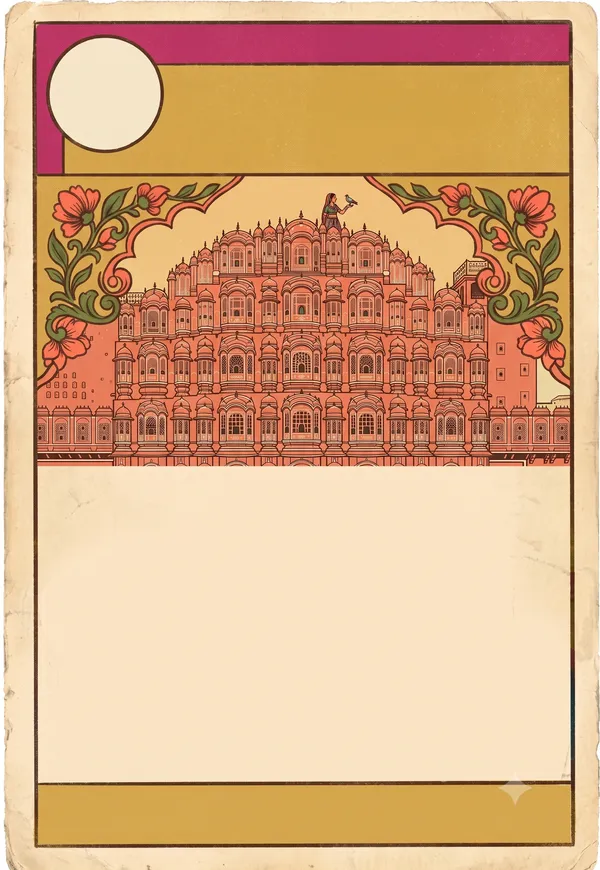
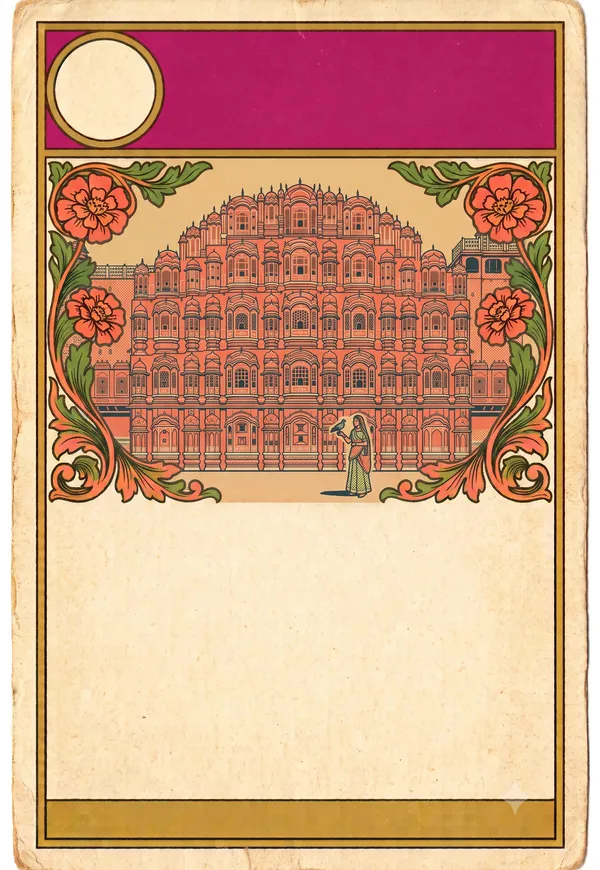
feat(mobile): all property plates on final palette — M4a art complete
8 plates finalised with single solid full-width set-colour banners (no more
split/two-tone gold bands):
- mumbai_0, mumbai_1        -> prussian navy
- jaipur_0, jaipur_1, jaipur_2 -> magenta pink
- puraniDilli_0, puraniDilli_1 -> burnt-sienna brown
- junction_2               -> re-dropped New Delhi Station (press-ink black),
                              station master on the deck; cleaner, compliant

Each passed the property checklist: single solid banner = locked set colour,
crisp (not washed-out), cream circle inside the band, hero <=~55%, clear cream
lower half, gold band.

The three gold-band early editions (mumbai_0, jaipur_0, jaipur_1) now carry
their set-colour banners, so their pins were removed: BANNER_HEX_OVERRIDES is
now EMPTY — every one of the 28 property plates renders on the locked palette
via the pure set-colour path. titleInk test updated (dropped the gold-band case;
the recolour check now confirms mumbai_0/jaipur_0/jaipur_1 follow the set colour).

M4a art is complete: 28/28 property plates + 10/10 action plates on final palette.

diff --git a/apps/mobile/src/design/titleInk.test.ts b/apps/mobile/src/design/titleInk.test.ts
@@ -25,21 +25,17 @@ describe('titleInkForPlate', () => {
     expect(titleInkForPlate(freshPlate, 'utility').name).toBe(INK.deepInk); // sage green
   });
 
-  it('keeps dark ink on the early gold-band plates (override)', () => {
-    expect(titleInkForPlate('prop_mumbai_0', 'mumbai').name).toBe(INK.deepInk);
-    expect(titleInkForPlate('prop_jaipur_0', 'jaipur').name).toBe(INK.deepInk);
-    expect(titleInkForPlate('prop_jaipur_1', 'jaipur').name).toBe(INK.deepInk);
-  });
-
-  it('recoloured plates follow the set colour now their overrides are removed', () => {
+  it('every plate follows its set colour now — BANNER_HEX_OVERRIDES is empty', () => {
+    // Former gold-band early editions, regenerated to solid set-colour banners:
+    expect(titleInkForPlate('prop_mumbai_0', 'mumbai').name).toBe(INK.cardCream); // navy -> cream
+    expect(titleInkForPlate('prop_jaipur_0', 'jaipur').name).toBe(INK.cardCream); // magenta -> cream
+    expect(titleInkForPlate('prop_jaipur_1', 'jaipur').name).toBe(INK.cardCream);
+    // Palette v2 recolours (one per family):
     expect(titleInkForPlate('prop_kashi_0', 'kashi').name).toBe(INK.deepInk); // kesari saffron -> dark
-    expect(titleInkForPlate('prop_kashi_2', 'kashi').name).toBe(INK.deepInk);
     expect(titleInkForPlate('prop_kolkata_0', 'kolkata').name).toBe(INK.cardCream); // royal violet -> cream
     expect(titleInkForPlate('prop_chennai_0', 'chennai').name).toBe(INK.deepInk); // chrome yellow -> dark
     expect(titleInkForPlate('prop_bangalore_0', 'bangalore').name).toBe(INK.deepInk); // azure -> dark
-    expect(titleInkForPlate('prop_bangalore_2', 'bangalore').name).toBe(INK.deepInk);
     expect(titleInkForPlate('prop_newDelhi_0', 'newDelhi').name).toBe(INK.cardCream); // leaf green -> cream
-    expect(titleInkForPlate('prop_newDelhi_2', 'newDelhi').name).toBe(INK.cardCream);
   });
 
   it('adds a keyline only when the ink is cream', () => {

diff --git a/apps/mobile/src/design/titleInk.ts b/apps/mobile/src/design/titleInk.ts
@@ -21,17 +21,14 @@ import { INK } from './tokens';
 // the existing card-face sublabel colour).
 const SUBLABEL_MUTED = '#5b5344';
 
-// Plates whose printed banner colour differs from their set colour, keyed by
-// plate id. Only exceptions live here; everything else uses the set colour.
-const BANNER_HEX_OVERRIDES: Record<string, string> = {
-  // Early "gold band" plates: painted with a gold title band (a thin set-colour
-  // strip on top) before the banner=set-colour convention settled. Dark ink reads
-  // on gold. Owner is deciding whether to regenerate these for palette consistency.
-  // (All palette-lock stragglers have now landed as v2 recolours and been removed.)
-  prop_mumbai_0: INK.gold,
-  prop_jaipur_0: INK.gold,
-  prop_jaipur_1: INK.gold,
-};
+// Plates whose printed banner colour differs from their set colour, keyed by plate
+// id. Only exceptions would live here; everything else uses the set colour.
+//
+// EMPTY — every property plate now carries its locked set-colour banner (M4a art
+// complete). The last three gold-band early editions (mumbai_0, jaipur_0, jaipur_1)
+// were regenerated to solid navy/magenta banners, so their pins were removed. Kept
+// as the extension point should any future plate ever be painted off-convention.
+const BANNER_HEX_OVERRIDES: Record<string, string> = {};
 
 export interface TitleInk {
   name: string; // colour for the property name
